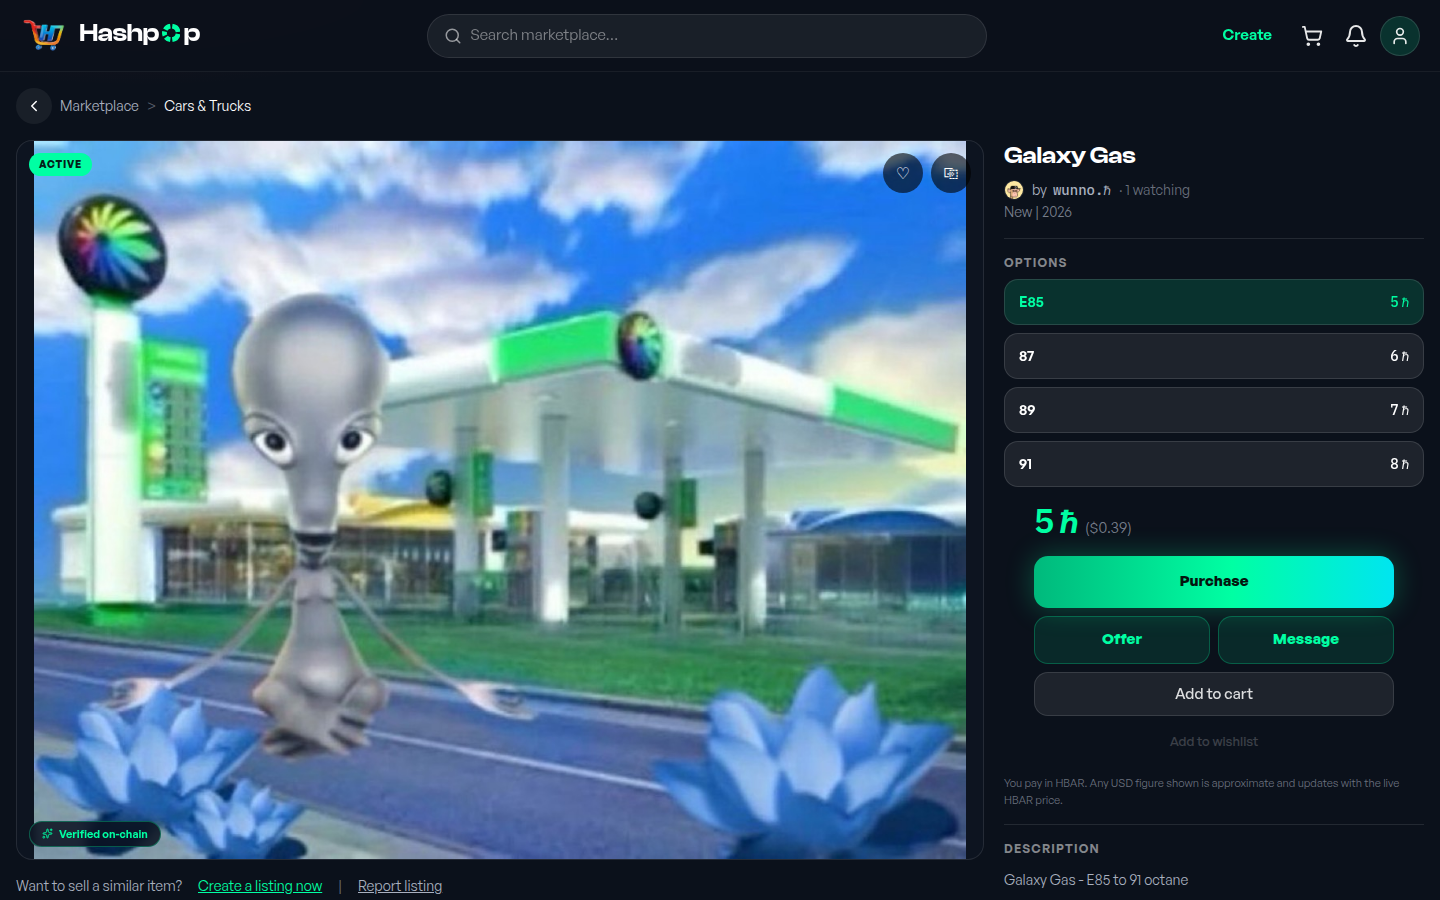
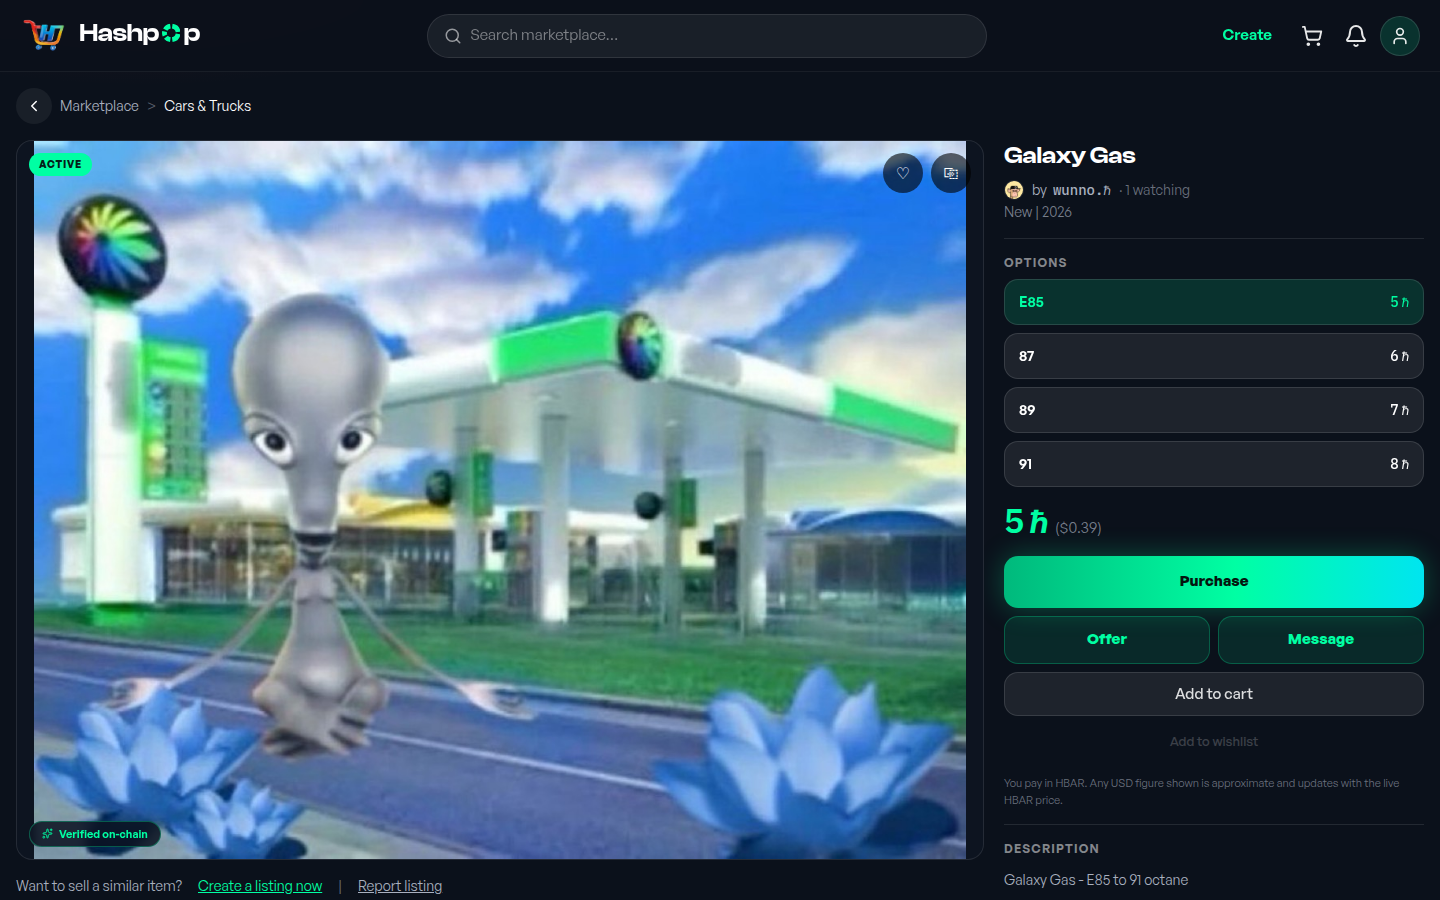
Align the desktop listing price and actions with the column.
The buy stack was a centered 360px block inside the 420px column, so the price and Purchase row sat in from Options and the title. On lg it now fills that column. Mobile keeps the 360px width.

diff --git a/frontend/components/BuyButton.tsx b/frontend/components/BuyButton.tsx
@@ -237,7 +237,7 @@ export function BuyButton({
   const purchaseOffset = descriptionSlot || hasCallout ? "mt-3" : "mt-4";
 
   return (
-    <div className="mx-auto w-full max-w-[360px]">
+    <div className="mx-auto w-full max-w-[360px] lg:mx-0 lg:max-w-none">
       <p className="flex items-baseline gap-2 text-left">
         <span className="font-mono text-[34px] font-bold leading-none tracking-tight text-chrome">
           {priceHbarDisplay}
